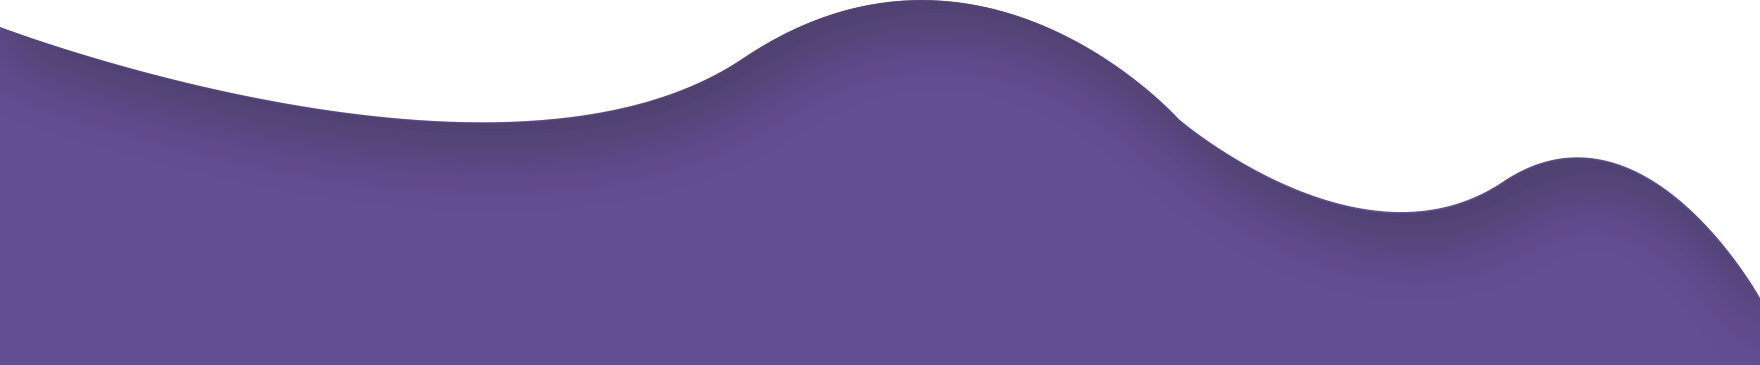
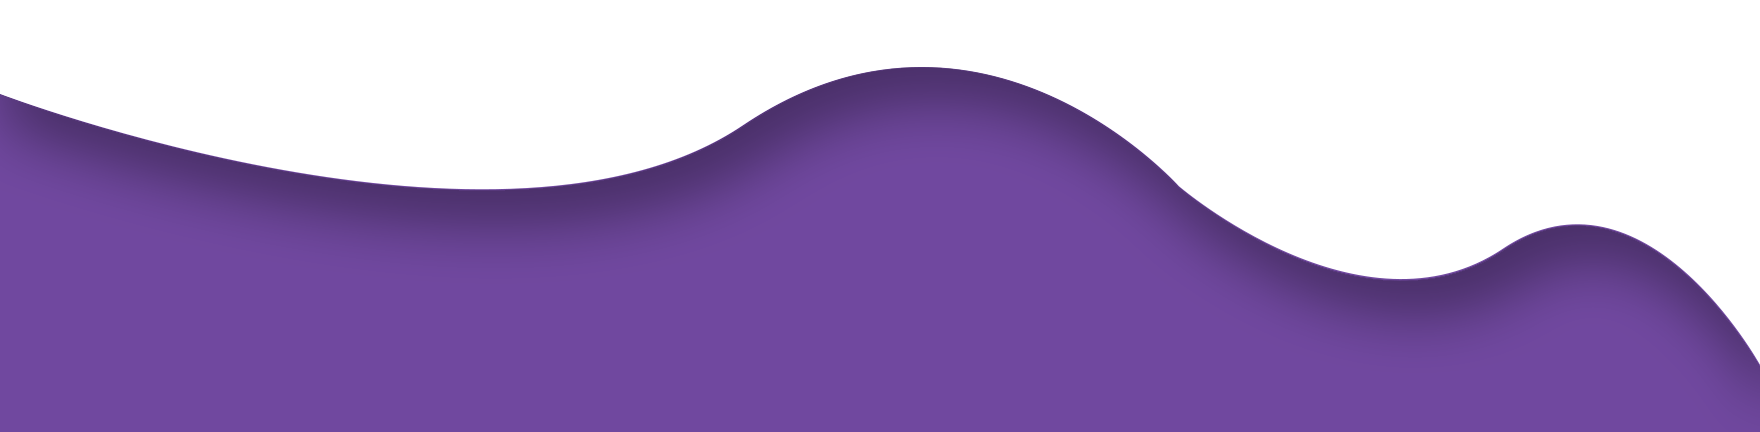
Update squig images

Changed region(s): [[0.0, 0.0, 1.0, 0.8137]]

diff --git a/app/assets/stylesheets/wichacks/layout.scss b/app/assets/stylesheets/wichacks/layout.scss
@@ -52,8 +52,12 @@
   background: $white;
 
   &:before {
-    background-image: asset-url('squig-white.png');
+    background-image: asset-url('squig-white-black.png');
   }
+}
+
+.section--white-purple-shadow:before {
+  background-image: asset-url('squig-white-purple.png');
 }
 
 .section--purple {

diff --git a/app/assets/stylesheets/wichacks/variables.scss b/app/assets/stylesheets/wichacks/variables.scss
@@ -1,5 +1,5 @@
 /* Colors */
-$purple: rgb(106, 74, 154);
+$purple: rgb(112, 72, 159);
 $magenta: rgb(139, 56, 131);
 $white: #ffffff;
 $text-color: rgb(34, 34, 34);
